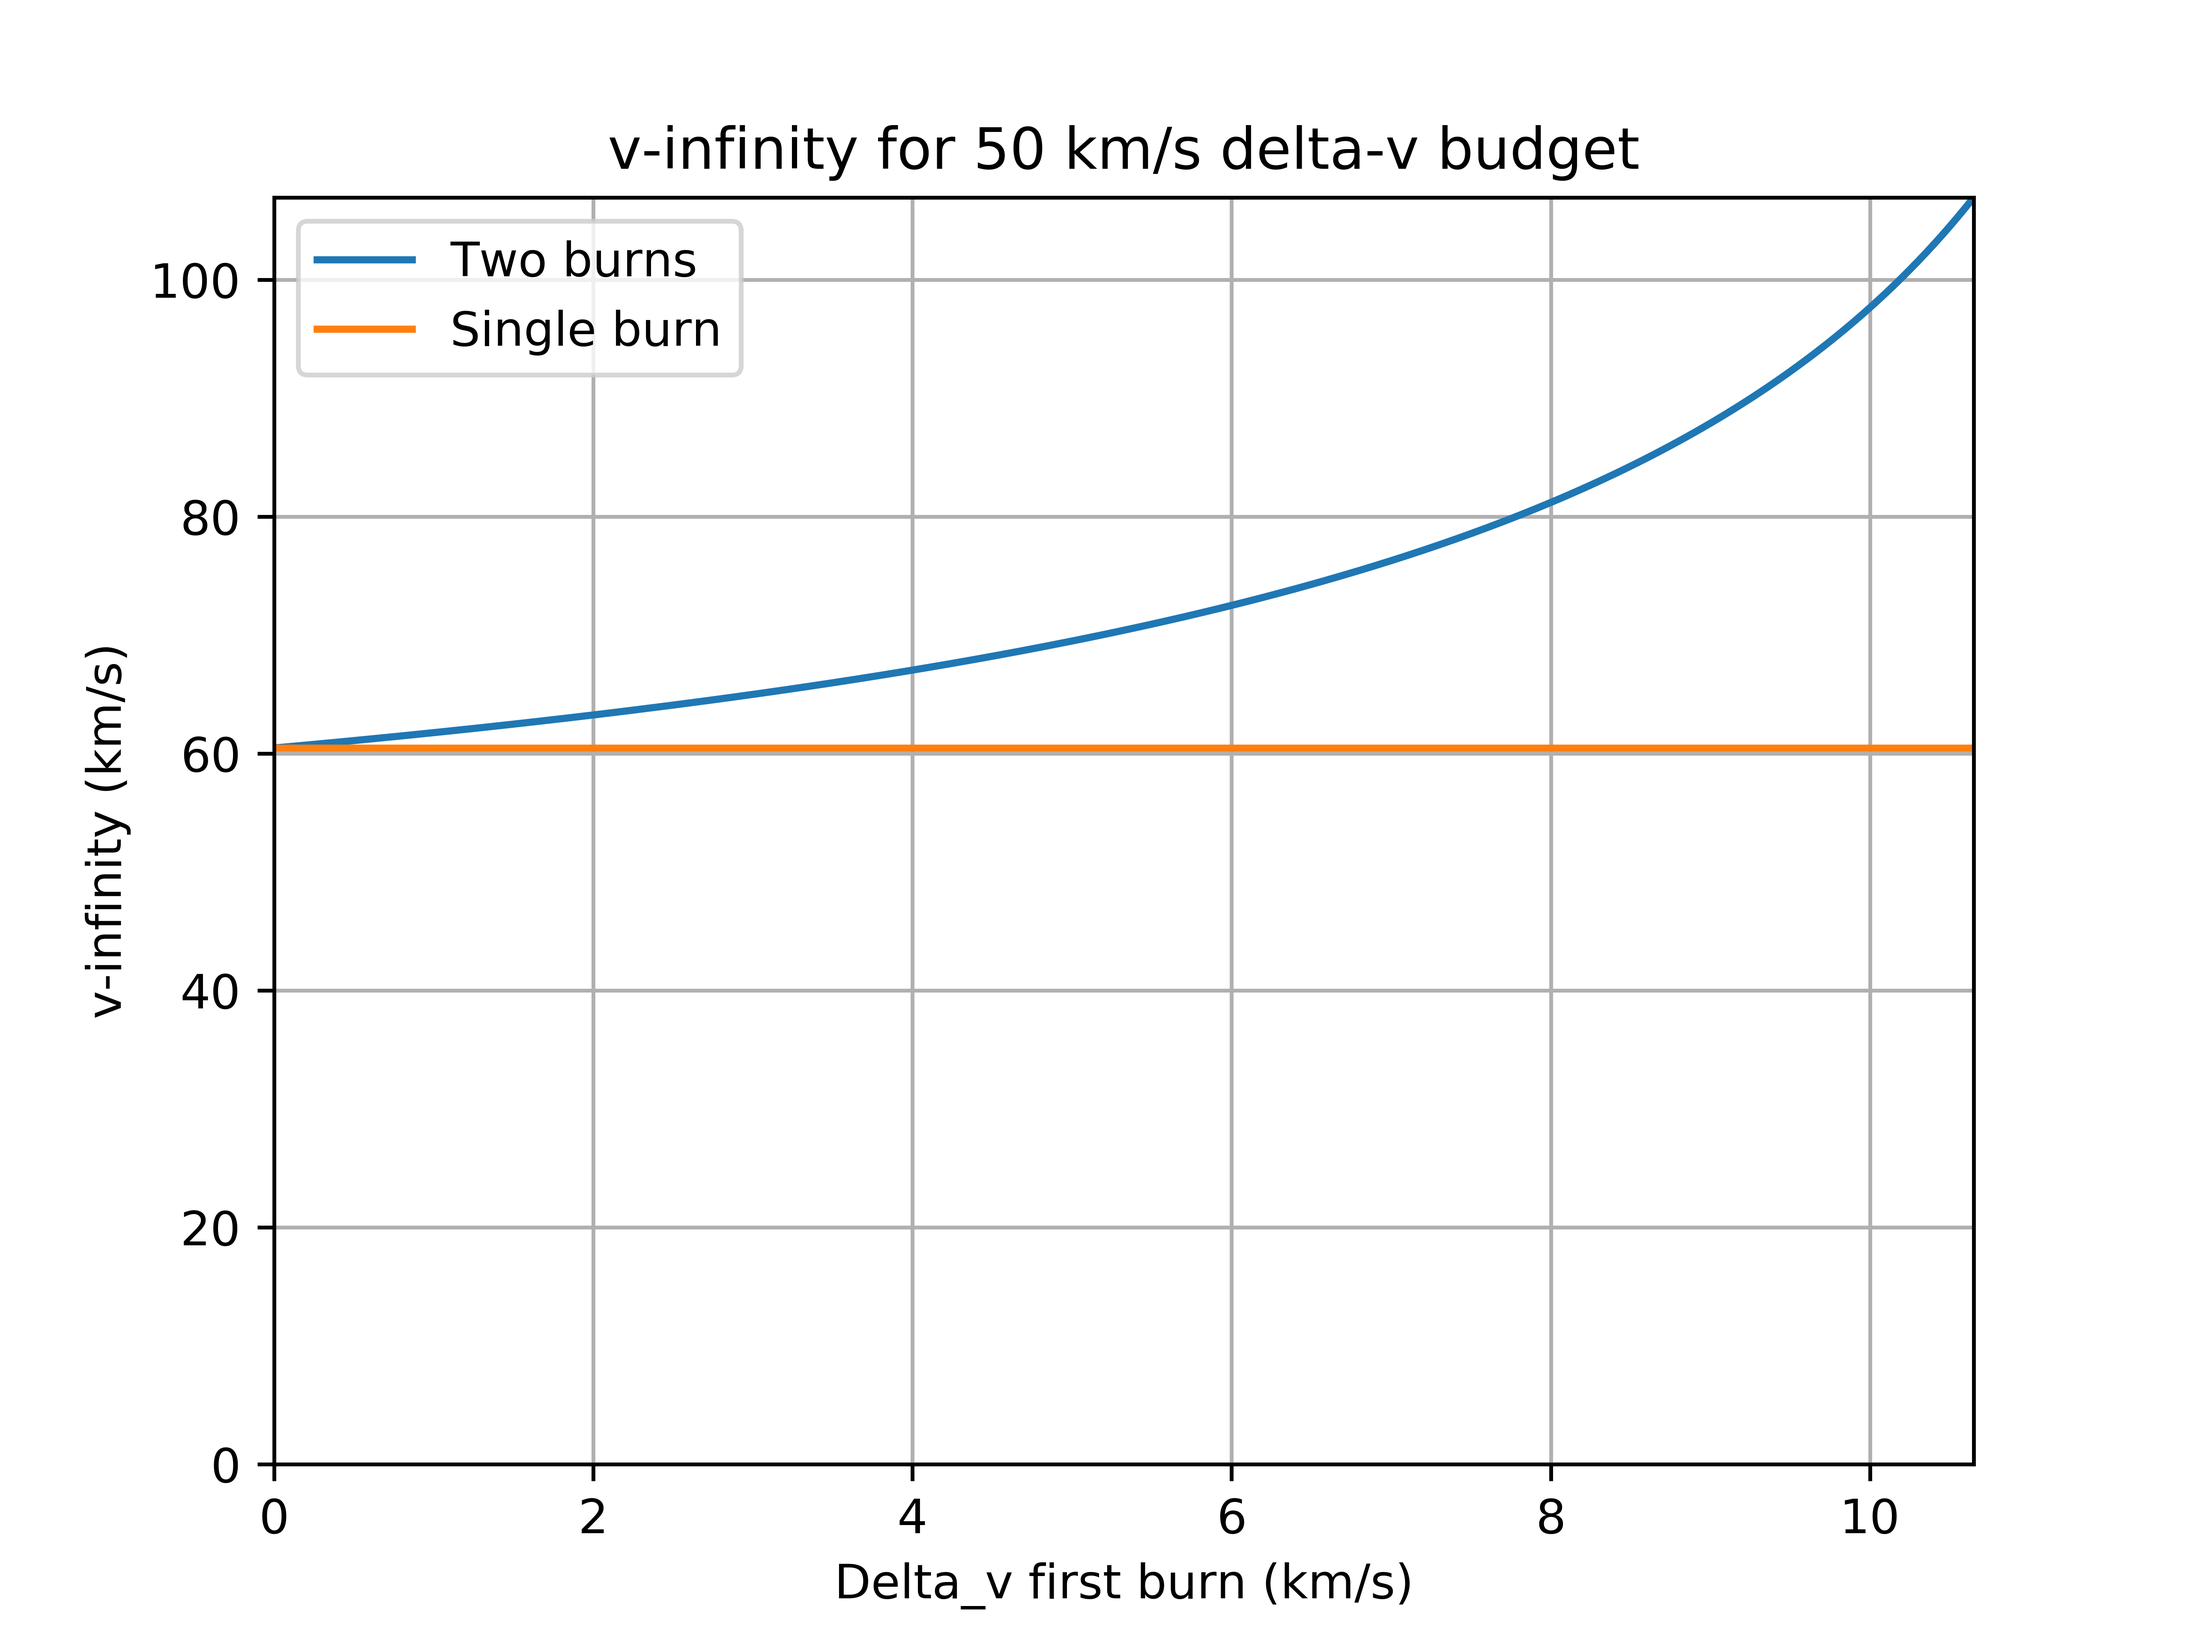
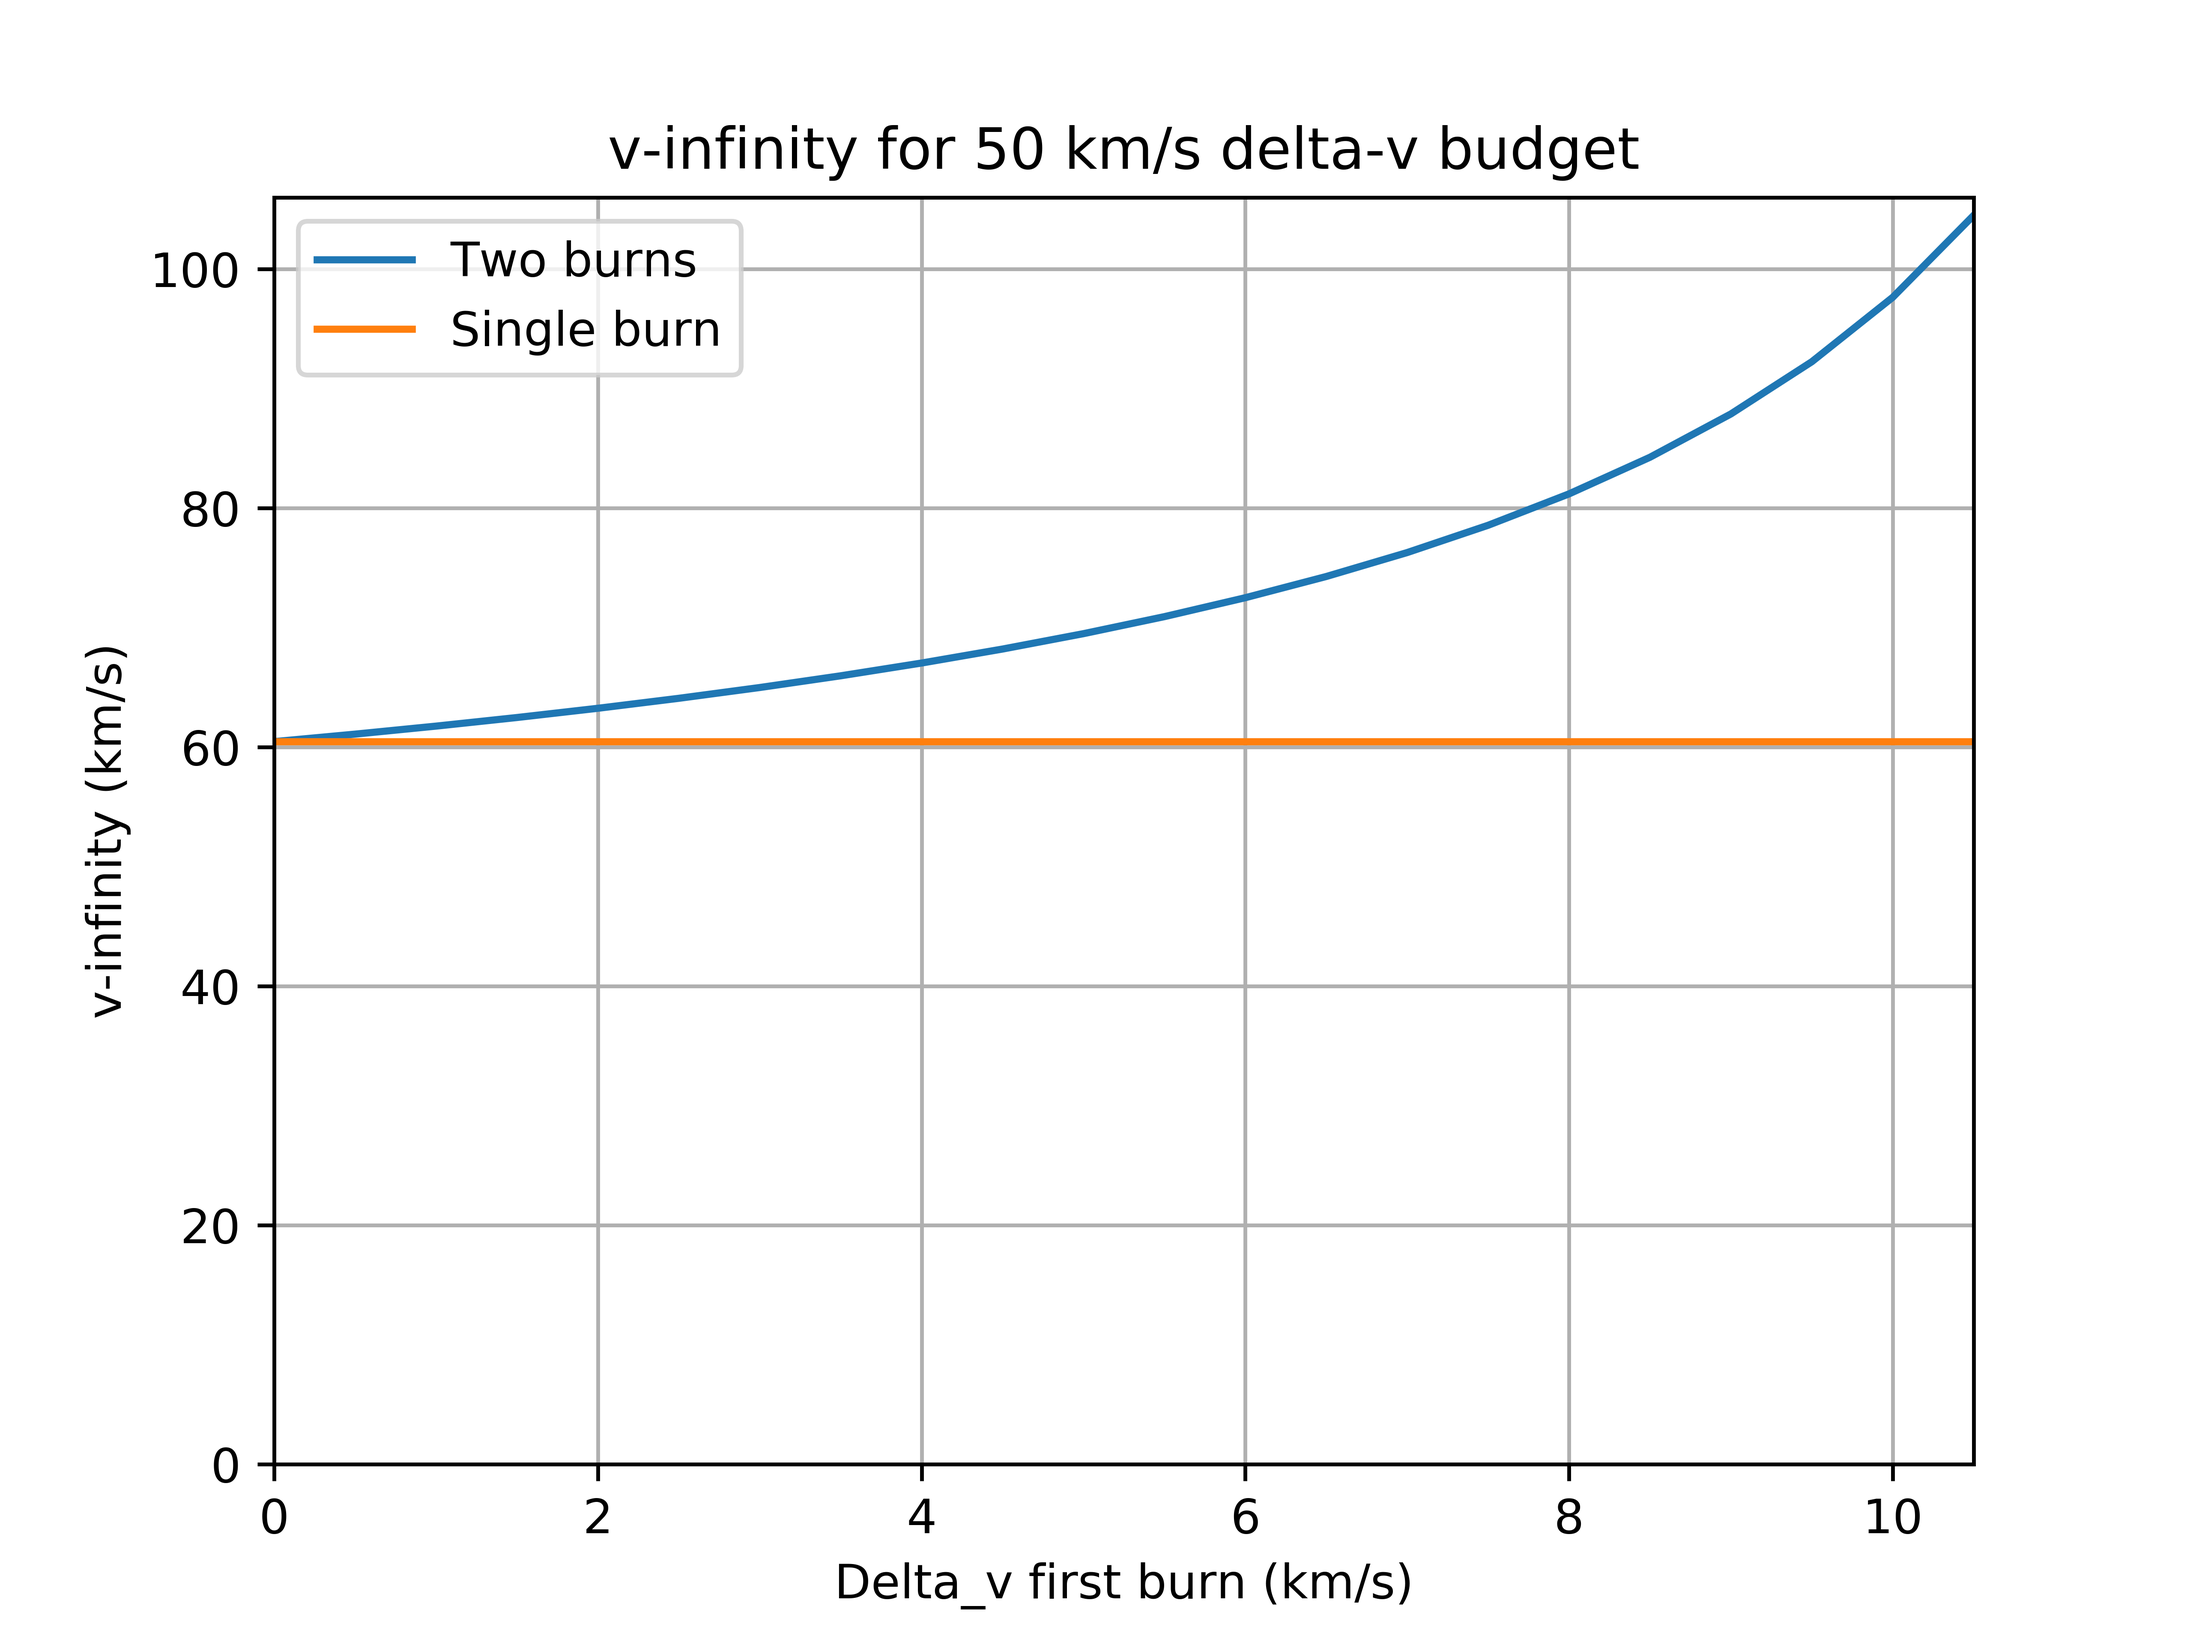
fixed problem in oberth.compare where no v1 were made into list

diff --git a/source/oberth.py b/source/oberth.py
@@ -38,7 +38,7 @@ HOME = os.getcwd()
 # constants
 MIN_R = 0.1 * AU                      # closest approach to sun allowed
                                       # Parker Solar Probe MIN_R ~0.05 AU
-DV_STEP = 50                          # delta_v increment between calculated combinations in m/s
+DV_STEP = 500                         # delta_v increment between calculated combinations in m/s
 
 
 def compare(max_dv, r0 = JUPITER_R, v0 = JUPITER_V):
@@ -54,10 +54,10 @@ def compare(max_dv, r0 = JUPITER_R, v0 = JUPITER_V):
 
     # calculate maximum allowed delta_v for first burn - required to meet MIN_R
     max_dv1 = calc_dv(MIN_R, JUPITER_R, v0)
-    # array of v1_values (first burn, dropping perihelion)
-    v1_values = np.arange(0.0, min(max_dv1, max_dv), step = DV_STEP)
+    # array of v1_values (first burn, dropping perihelion, retrograde)
+    v1_values = np.arange(0.0, max(max_dv1, -1 * max_dv), step = -1 * DV_STEP)
     # array of v2_values (second burn, heliocentric escape)
-    v2_values = np.array([max_dv - x for x in list(v1_values)])
+    v2_values = np.array([max_dv - abs(x) for x in list(v1_values)])
     # array holding [v1, v2, v_infinity]
     v_infinities = np.zeros((len(v1_values), 3))
     # print number of delta v combinations to calculate
@@ -141,7 +141,7 @@ def calc_vi(dv1, dv2, r0, v0):
     outputs: v_infinity - hyperbolic excess velocity'''
 
     # calculate perihelion and velocity at perihelion
-    rp, vp = calc_perihelion(dv1, r0, v0)
+    rp, vp = calc_orbital_height(dv1, r0, v0)
 
 
     if (vp + dv2)**2 < 2*M_S*G/rp:
@@ -219,7 +219,7 @@ def plot_vi(data, dv_budgets):
     timestamp = currentDT.strftime("%Y-%m-%d %H_%M_%S")
 
     # go to graph directory and save
-    os.chdir(HOME + "/graphs")
+    os.chdir(HOME + "/../graphs")
     plt.savefig("v_infinity_" + timestamp + "_.png", format="png", dpi = 800)
     os.chdir(HOME)
 
@@ -232,7 +232,7 @@ def plot_single_dv(v_infinities, one_burn_vi, max_dv):
     inputs: data - array with all v_i data given all dv combinations'''
 
     # create list of just dv1 (km/s)
-    dv_1 = [x[0]/1000 for x in list(v_infinities)]
+    dv_1 = [-1 * x[0]/1000 for x in list(v_infinities)]
     # create list of just dv2 (km/s)          
     dv_2 = [x[1]/1000 for x in list(v_infinities)]
     # create list of just v_infinities (km/s)       
@@ -247,7 +247,6 @@ def plot_single_dv(v_infinities, one_burn_vi, max_dv):
      %(max_dv/1000))                                   # plot title
     plt.grid(True)
 
-    print(one_burn_vi)
 
     # plot the v-infinity combinations
     # plot v_infinity for two burns
@@ -259,7 +258,7 @@ def plot_single_dv(v_infinities, one_burn_vi, max_dv):
     plt.legend()
 
     # go to graph directory and save
-    os.chdir(HOME + "/graphs")
+    os.chdir(HOME + "/../graphs")
     plt.savefig("compare_%d_kms.png" %(max_dv/1000), format="png", dpi = 800)
     os.chdir(HOME)
 

diff --git a/source/focal.py b/source/focal.py
@@ -49,7 +49,7 @@ def plot_foci(r_max):
     plt.plot(r_array, f_d_array)
 
     # go to graph directory and save
-    os.chdir(HOME + "/graphs")
+    os.chdir(HOME + "/../graphs")
     plt.savefig("fd_" + str(r_max) + "R_S.png", format="png", dpi = 800)
     plt.close()
     os.chdir(HOME)

diff --git a/source/orbit.py b/source/orbit.py
@@ -63,6 +63,12 @@ def calc_dv(rf, r0, v0, m = M_S):
     # calculate dv; rearrangement of vis-viva equation
     dv = math.sqrt(-1* (1/a - 2/r0) * G * m) - v0
 
+    print("a:", a)
+    print("rf:", rf)
+    print("r0:", r0)
+    print("v0:", v0)
+    print("dv:", dv)
+
     return dv
 
 
